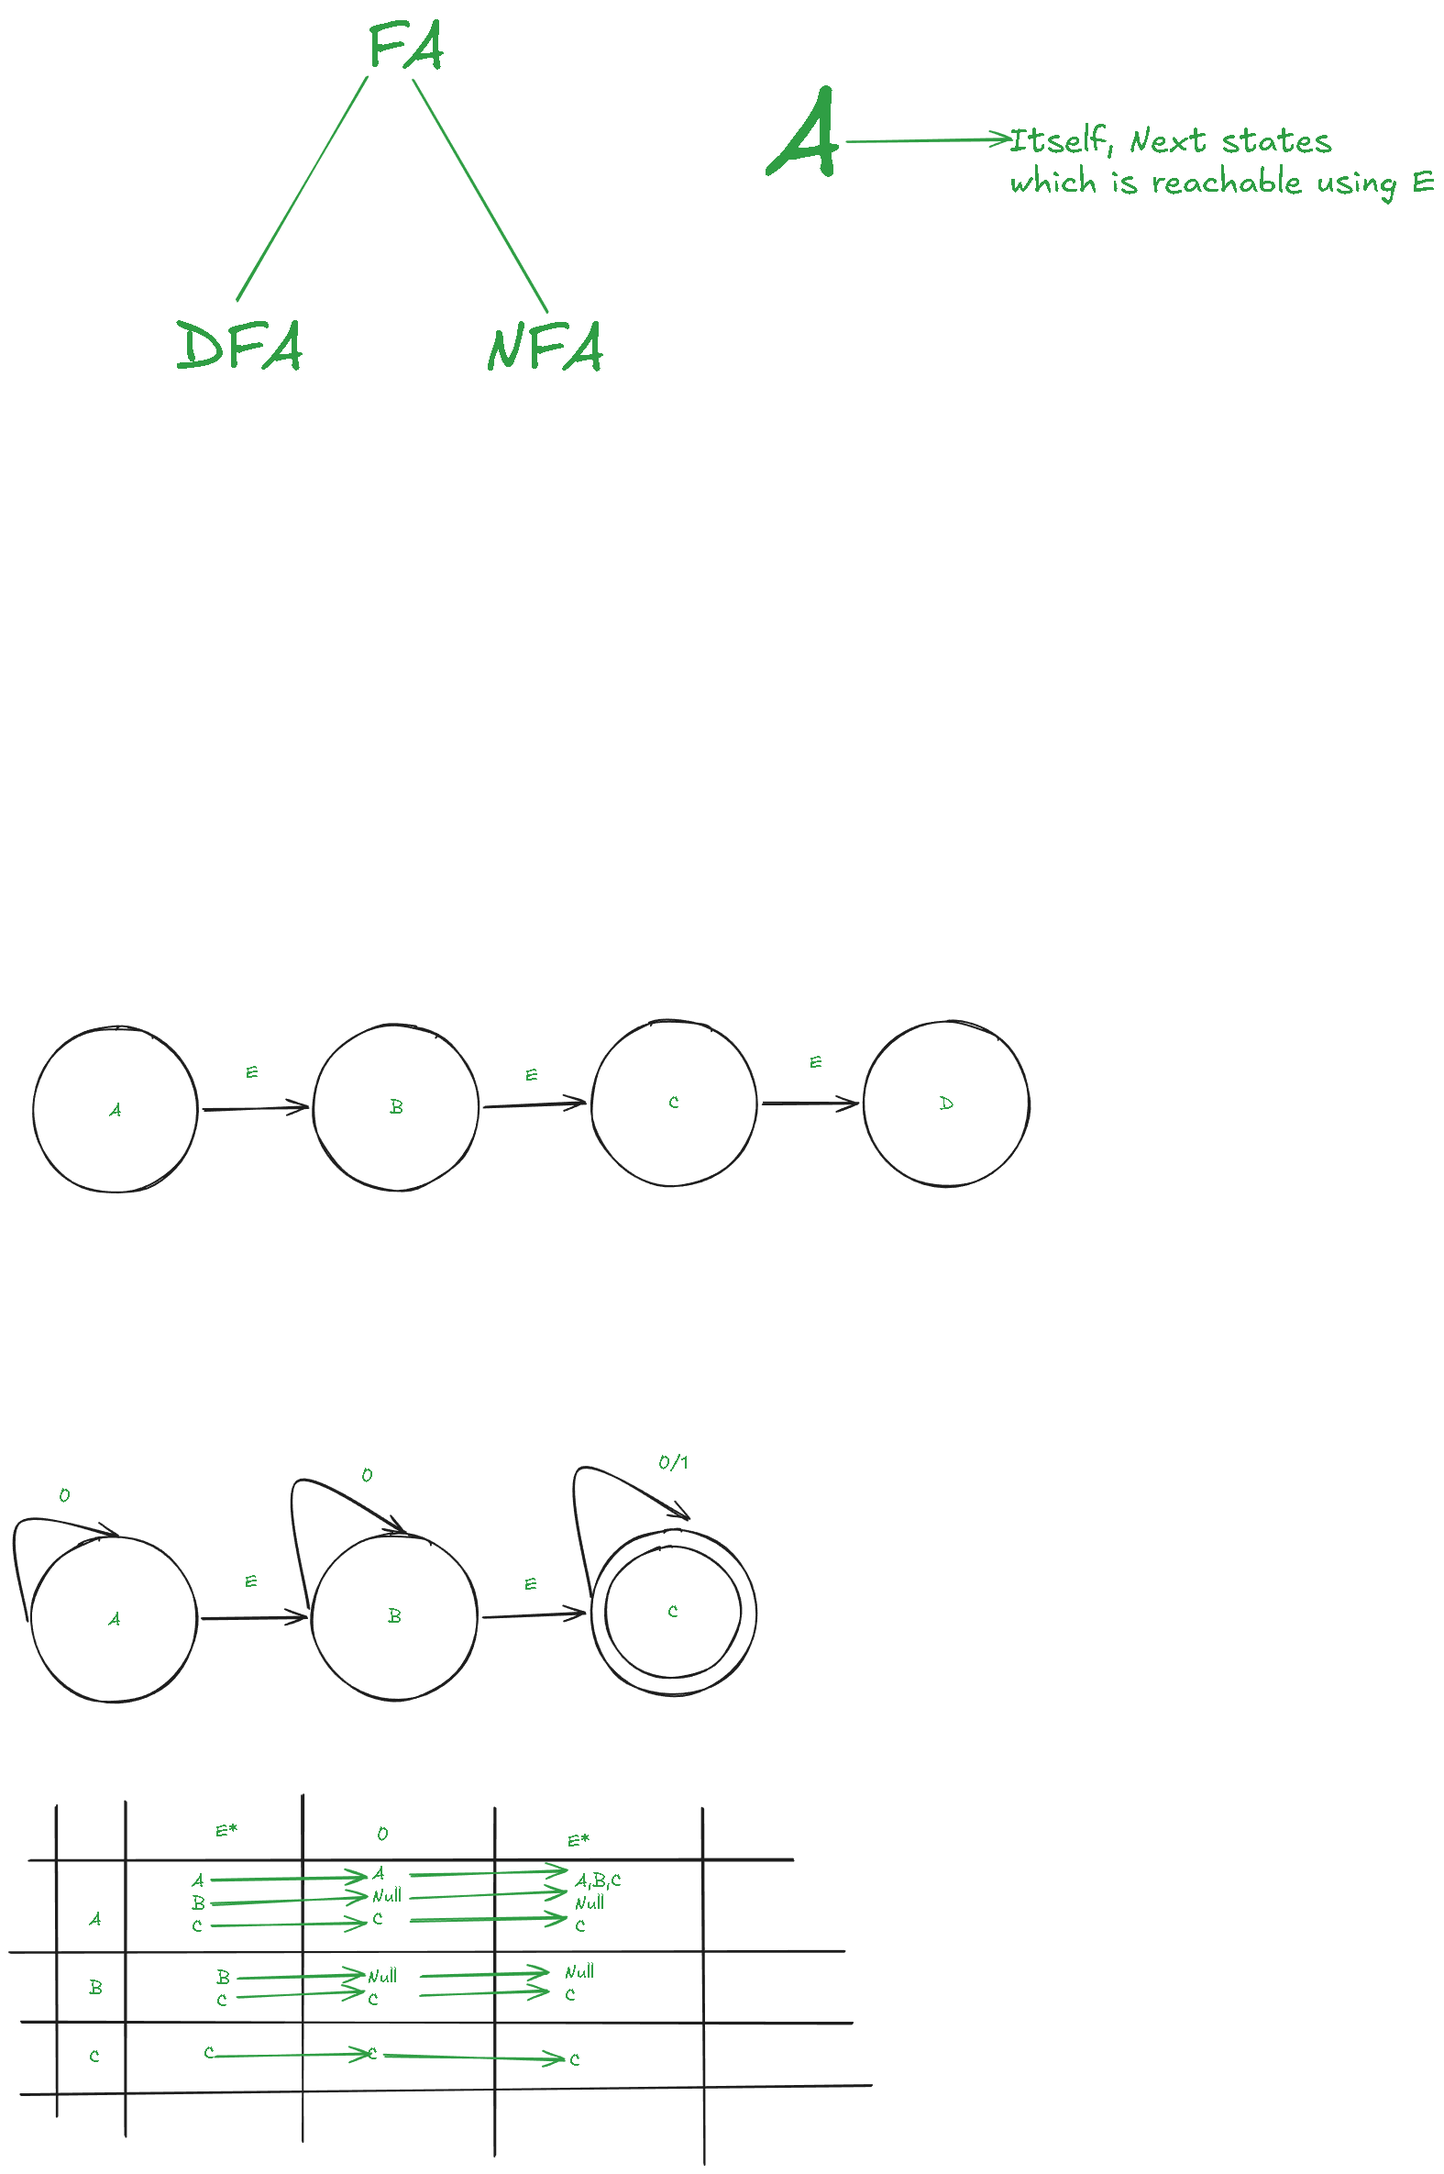
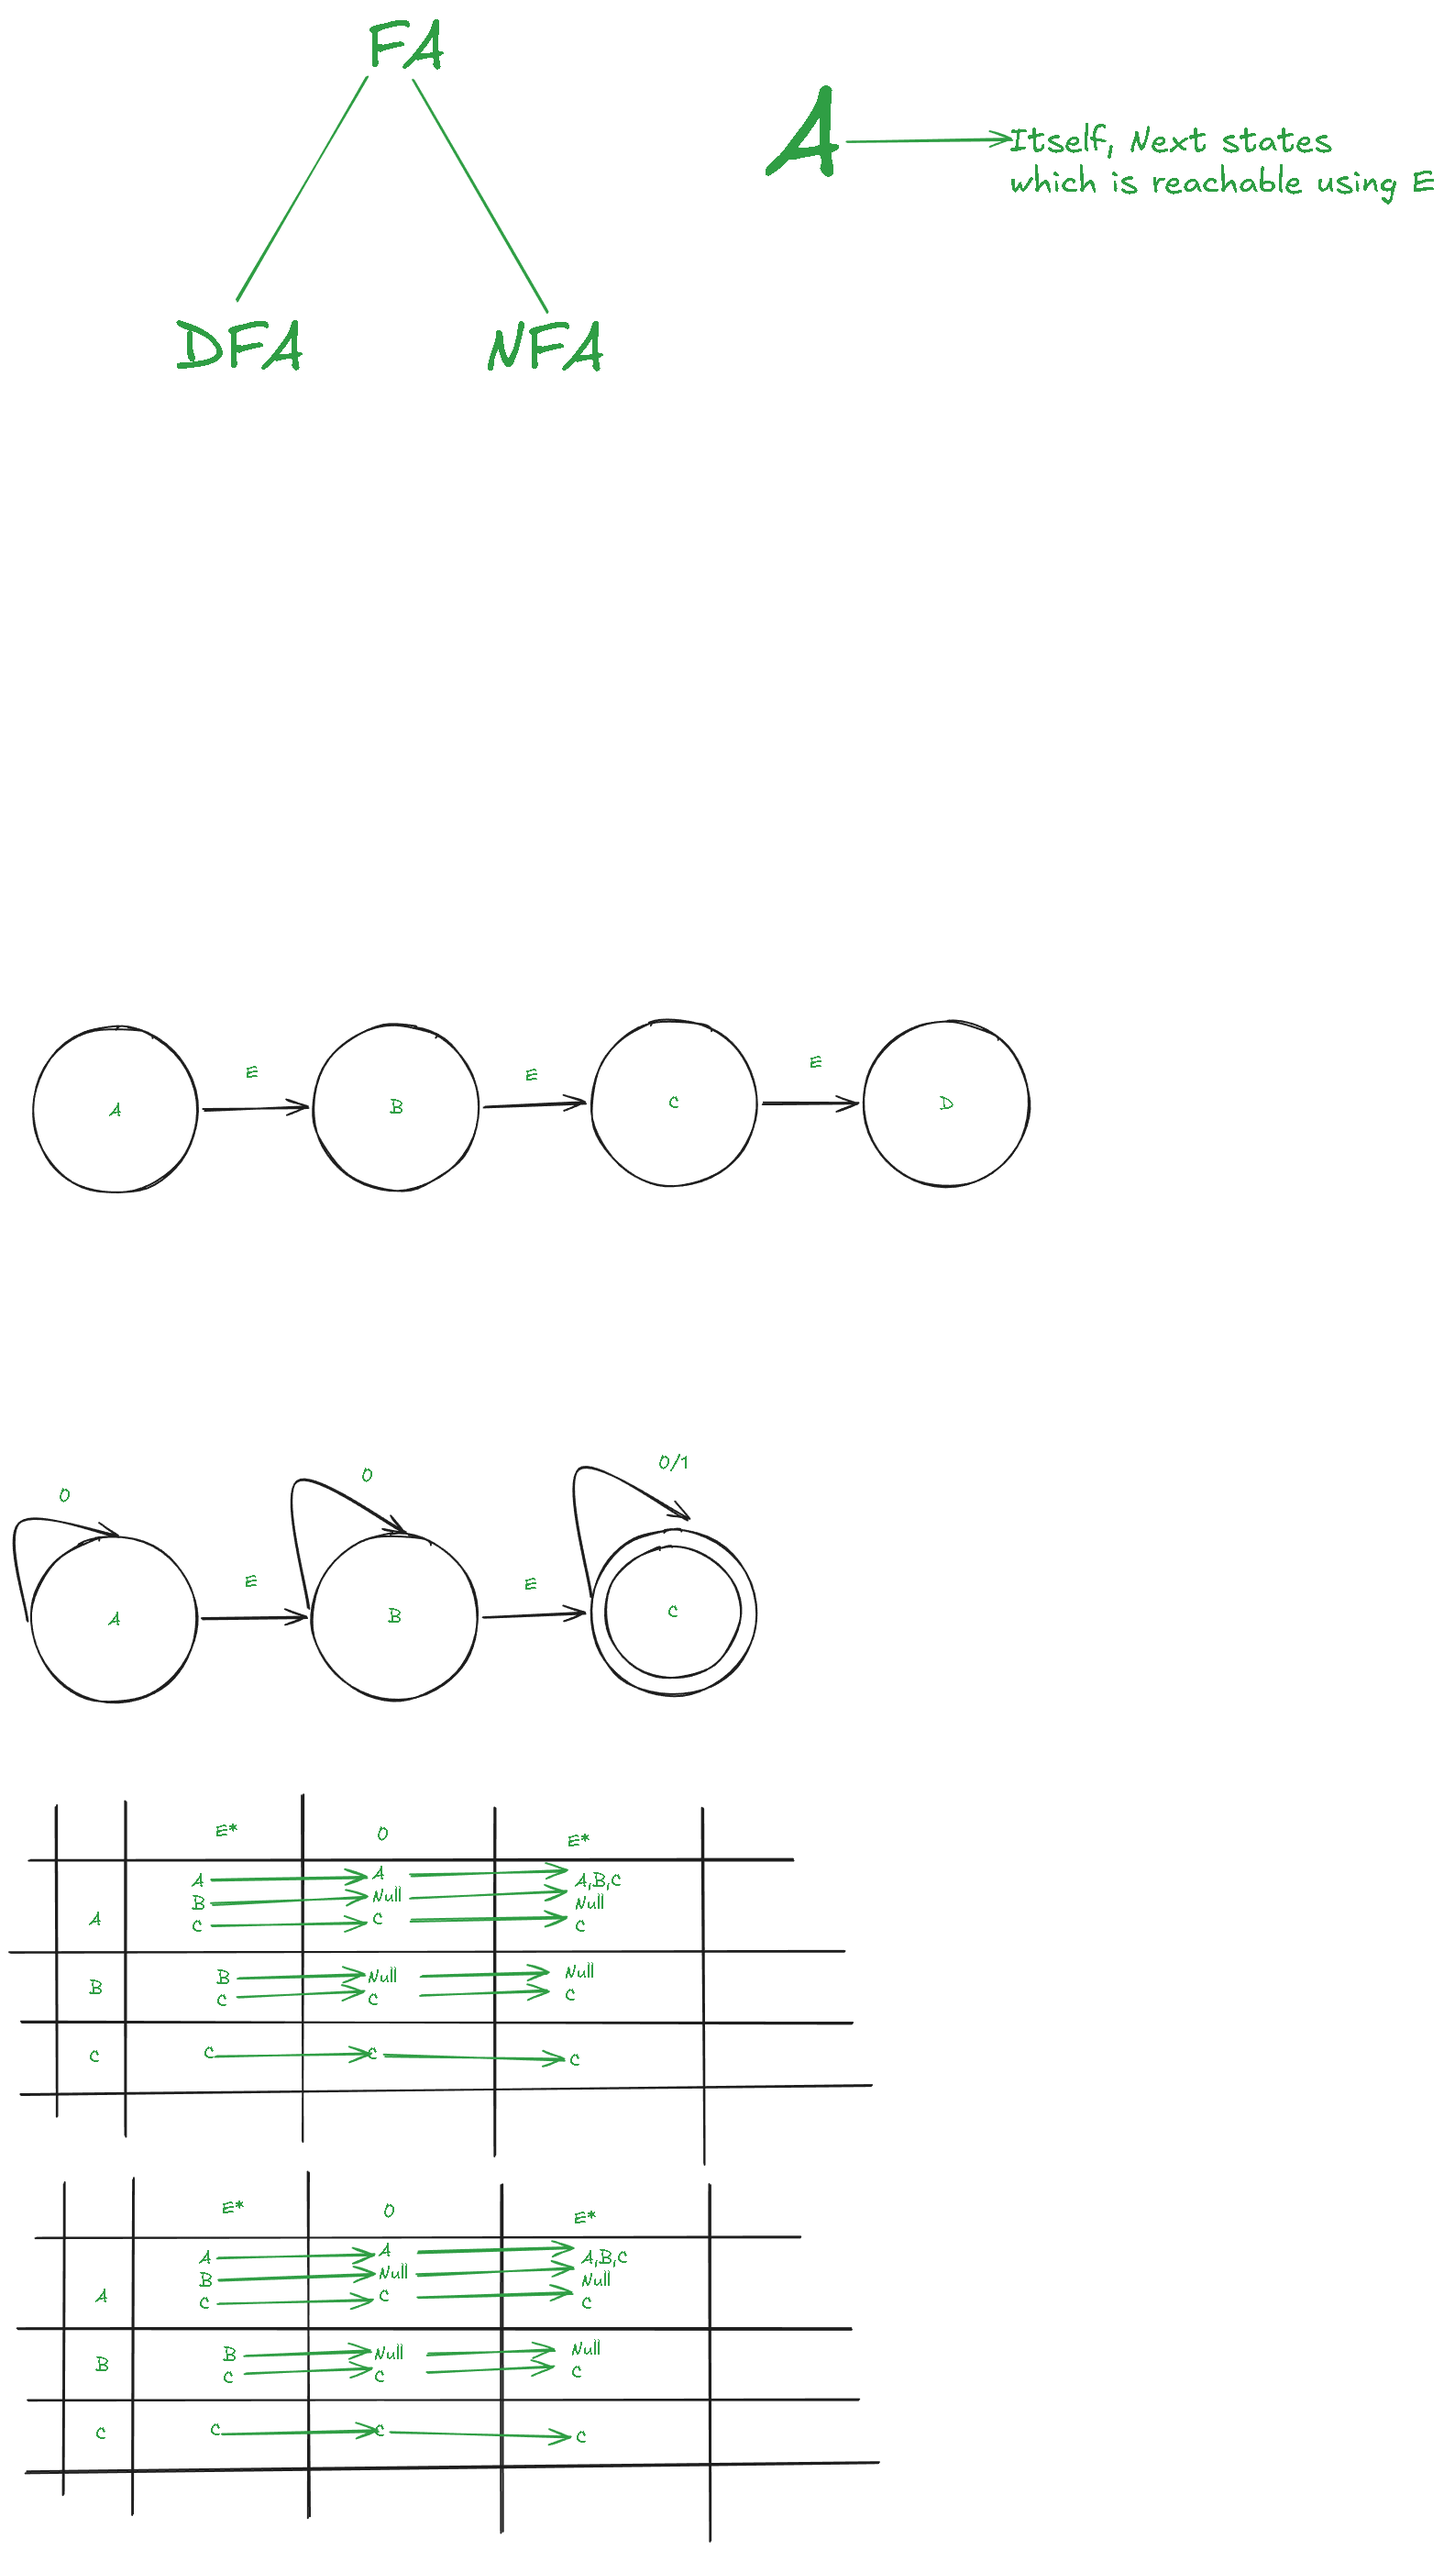
vault backup: 2026-08-14 08:42:29

diff --git a/Excalidraw/Drawing 2026-08-14 08.13.14.excalidraw.md b/Excalidraw/Drawing 2026-08-14 08.13.14.excalidraw.md
@@ -92,6 +92,46 @@ A ^PObVyumi
 Itself, Next states 
 which is reachable using E ^zC8b5uoN
 
+E* ^1ydA8ToU
+
+1 ^07GPYt2S
+
+E* ^m2XcJkMI
+
+A
+
+
+B
+
+
+C ^e4v4F6gf
+
+A
+B
+C ^xDsiTgjj
+
+Null
+B,C
+C ^mGLqN5IN
+
+B
+C ^TzzRIIWe
+
+B
+C ^PwINGvae
+
+Null 
+C ^Cjj24qwB
+
+C ^Ym9LvSdK
+
+C ^CTfiU3sP
+
+C ^B24ucXGh
+
+Null 
+C ^HoCbjxwH
+
 %%
 ## Drawing
 ```compressed-json
@@ -283,20 +323,92 @@ wHBALAUuJbaJBiuTgmX54deF6R1YZTeXx1DvjrlrZ8NXMFxlKacjXgFlcfhLZp2Cl+V3BvuTnXQx00b0
 
[1 lines of base64/hex data omitted]
 
[2 lines of base64/hex data omitted]
 
[2 lines of base64/hex data omitted]
 
[2 lines of base64/hex data omitted]
 
[2 lines of base64/hex data omitted]
 
[2 lines of base64/hex data omitted]
 
[2 lines of base64/hex data omitted]
 
[2 lines of base64/hex data omitted]
 
[2 lines of base64/hex data omitted]
+
[1 lines of base64/hex data omitted]
+
[1 lines of base64/hex data omitted]
+
[1 lines of base64/hex data omitted]
+
[1 lines of base64/hex data omitted]
+
[1 lines of base64/hex data omitted]
+
[1 lines of base64/hex data omitted]
+
[1 lines of base64/hex data omitted]
+
[1 lines of base64/hex data omitted]
+
[1 lines of base64/hex data omitted]
+
[1 lines of base64/hex data omitted]
+
[1 lines of base64/hex data omitted]
+
[1 lines of base64/hex data omitted]
+
[1 lines of base64/hex data omitted]
+
[1 lines of base64/hex data omitted]
+
[1 lines of base64/hex data omitted]
+
[1 lines of base64/hex data omitted]
+
[1 lines of base64/hex data omitted]
+
[1 lines of base64/hex data omitted]
+
[1 lines of base64/hex data omitted]
+
[1 lines of base64/hex data omitted]
+
[1 lines of base64/hex data omitted]
+
[1 lines of base64/hex data omitted]
+
[1 lines of base64/hex data omitted]
+
[1 lines of base64/hex data omitted]
+
[1 lines of base64/hex data omitted]
+
[1 lines of base64/hex data omitted]
+
[1 lines of base64/hex data omitted]
+
[1 lines of base64/hex data omitted]
+
[1 lines of base64/hex data omitted]
+
[1 lines of base64/hex data omitted]
+
[1 lines of base64/hex data omitted]
+
[1 lines of base64/hex data omitted]
+
[1 lines of base64/hex data omitted]
+
[1 lines of base64/hex data omitted]
+
[1 lines of base64/hex data omitted]
+
[1 lines of base64/hex data omitted]
 ```
 %%
